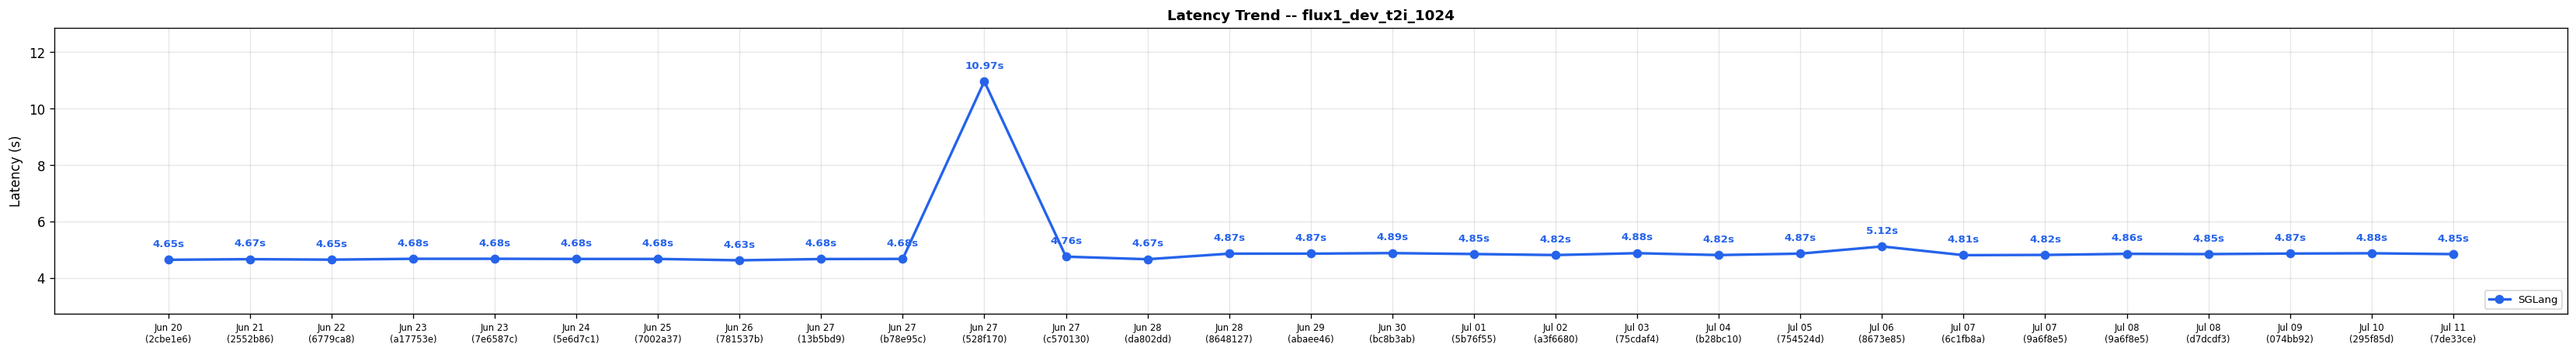
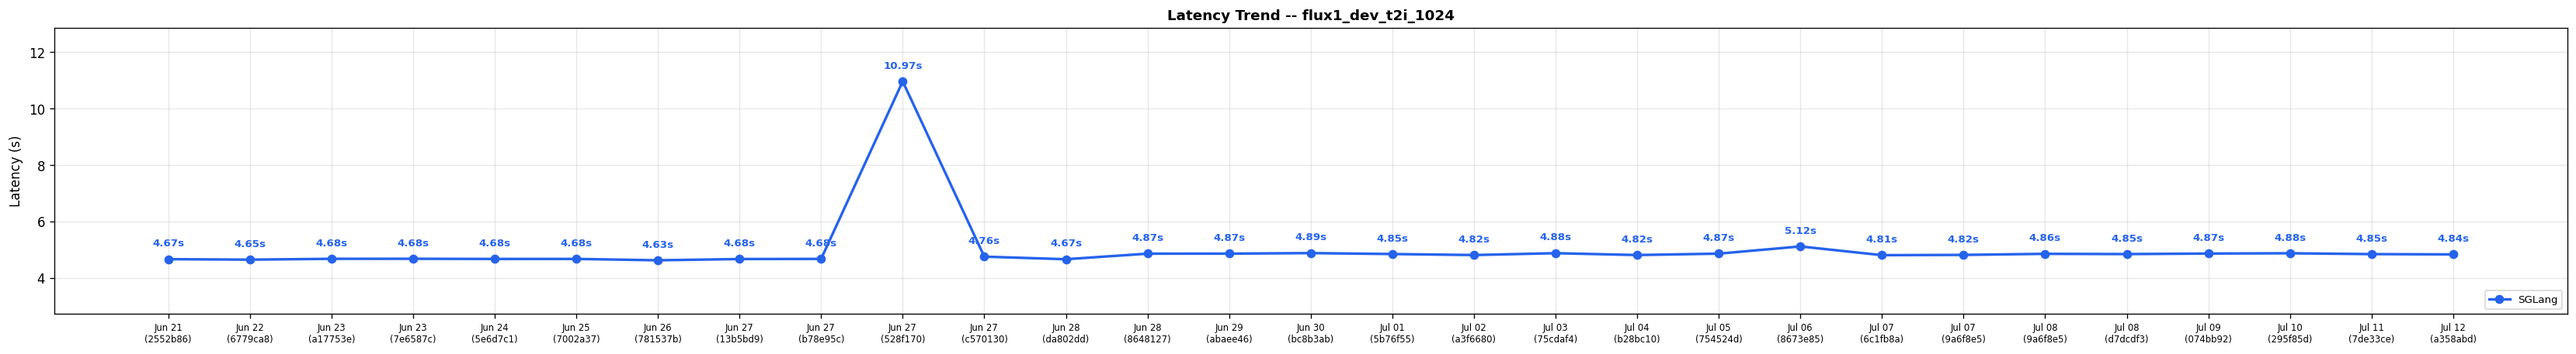
Diffusion comparison results for run 29174243869 (#713)

diff --git a/diffusion-comparisons/dashboard.md b/diffusion-comparisons/dashboard.md
@@ -1,22 +1,22 @@
 # SGLang-Diffusion Nightly Performance Dashboard
 
-*Generated: Jul 11 | Commit: `7de33ce`*
+*Generated: Jul 12 | Commit: `a358abd`*
 
 ## SGLang-Diffusion Performance
 
 | Model | Risk | sglang (s) |
 |-------|------|---------|
-| FLUX.1-dev | ✅ | **4.85** |
-| FLUX.2-dev | ✅ | **14.49** |
-| Qwen-Image-2512 | ✅ | **8.81** |
-| Qwen-Image-Edit-2511 | ✅ | **15.38** |
+| FLUX.1-dev | ✅ | **4.84** |
+| FLUX.2-dev | ✅ | **14.35** |
+| Qwen-Image-2512 | ✅ | **8.75** |
+| Qwen-Image-Edit-2511 | ✅ | **15.28** |
 | Z-Image-Turbo | ✅ | **0.81** |
-| Wan2.2-T2V-A14B-Diffusers | ✅ | **210.63** |
-| Wan2.2-TI2V-5B-Diffusers | ✅ | **65.23** |
+| Wan2.2-T2V-A14B-Diffusers | ✅ | **209.68** |
+| Wan2.2-TI2V-5B-Diffusers | ✅ | **64.18** |
 | LTX-2.3 | ✅ | **13.06** |
-| ideogram-4-fp8 | ✅ | **5.34** |
-| Cosmos3-Super | ✅ | **118.39** |
-| Wan2.2-I2V-A14B-Diffusers | ✅ | **204.69** |
+| ideogram-4-fp8 | ✅ | **5.32** |
+| Cosmos3-Super | ✅ | **114.39** |
+| Wan2.2-I2V-A14B-Diffusers | ✅ | **203.71** |
 
 ### Latency Trend: flux1_dev_t2i_1024
 
@@ -77,6 +77,7 @@
 
 | Date | Commit | flux1_dev_t2i_1024 (s) | flux2_dev_t2i_1024 (s) | qwen_image_2512_t2i_1024 (s) | qwen_image_edit_2511 (s) | zimage_turbo_t2i_1024 (s) | wan22_t2v_a14b_720p (s) | wan22_ti2v_5b_720p (s) | ltx2.3_twostage_ti2v_2gpus (s) | ideogram4_fp8_t2i_2gpu (s) | cosmos3_super_t2v_2gpu (s) | wan22_i2v_a14b_720p (s) | Trend |
 |------|--------|---------|---------|---------|---------|---------|---------|---------|---------|---------|---------|---------|-------|
+| Jul 12 | `a358abd` | 4.84 | 14.35 | 8.75 | 15.28 | 0.81 | 209.68 | 64.18 | 13.06 | 5.32 | 114.39 | 203.71 | :left_right_arrow:  :left_right_arrow:  :left_right_arrow:  :left_right_arrow:  :left_right_arrow:  :left_right_arrow:  :left_right_arrow:  :left_right_arrow:  :left_right_arrow:  :arrow_down:  :left_right_arrow: |
 | Jul 11 | `7de33ce` | 4.85 | 14.49 | 8.81 | 15.38 | 0.81 | 210.63 | 65.23 | 13.06 | 5.34 | 118.39 | 204.69 | :left_right_arrow:  :left_right_arrow:  :left_right_arrow:  :left_right_arrow:  :left_right_arrow:  :left_right_arrow:  :left_right_arrow:  :left_right_arrow:  :left_right_arrow:  :arrow_down:  :left_right_arrow: |
 | Jul 10 | `295f85d` | 4.88 | 14.46 | 8.98 | 15.44 | 0.82 | 210.72 | 65.23 | 13.05 | 5.38 | 128.45 | 205.69 | :left_right_arrow:  :left_right_arrow:  :arrow_down:  :left_right_arrow:  :left_right_arrow:  :left_right_arrow:  :left_right_arrow:  :arrow_down:  :left_right_arrow:  :arrow_up:  :left_right_arrow: |
 | Jul 09 | `074bb92` | 4.87 | 14.45 | 10.74 | 15.41 | 0.83 | 210.74 | 65.24 | 17.07 | 5.34 | 116.33 | 204.68 | :left_right_arrow:  :left_right_arrow:  :arrow_down:  :left_right_arrow:  :left_right_arrow:  :left_right_arrow:  :left_right_arrow:  :arrow_up:  :left_right_arrow:  :left_right_arrow:  :left_right_arrow: |
@@ -105,8 +106,7 @@
 | Jun 23 | `7e6587c` | 4.68 | 14.35 | 12.84 | 23.79 | 0.64 | 209.91 | 65.20 | 14.05 | N/A | N/A | 205.65 | :left_right_arrow:  :left_right_arrow:  :left_right_arrow:  :left_right_arrow:  :left_right_arrow:  :left_right_arrow:  :left_right_arrow:  :left_right_arrow:    :left_right_arrow: |
 | Jun 23 | `a17753e` | 4.68 | 14.34 | 12.80 | 23.72 | 0.64 | 211.07 | 65.22 | 14.05 | N/A | N/A | 205.68 | :left_right_arrow:  :left_right_arrow:  :left_right_arrow:  :left_right_arrow:  :left_right_arrow:  :left_right_arrow:  :left_right_arrow:  :left_right_arrow:    :left_right_arrow: |
 | Jun 22 | `6779ca8` | 4.65 | 14.37 | 12.83 | 23.76 | 0.64 | 209.96 | 65.23 | 14.05 | N/A | N/A | 205.58 | :left_right_arrow:  :left_right_arrow:  :left_right_arrow:  :left_right_arrow:  :left_right_arrow:  :left_right_arrow:  :left_right_arrow:  :arrow_down:    :left_right_arrow: |
-| Jun 21 | `2552b86` | 4.67 | 14.33 | 12.74 | 23.63 | 0.65 | 209.38 | 64.15 | 19.07 | N/A | N/A | 204.55 | :left_right_arrow:  :left_right_arrow:  :left_right_arrow:  :left_right_arrow:  :arrow_down:  :left_right_arrow:  :left_right_arrow:  :arrow_up:    :left_right_arrow: |
-| Jun 20 | `2cbe1e6` | 4.65 | 14.33 | 12.78 | 23.63 | 0.66 | 209.30 | 64.20 | 15.05 | N/A | N/A | 205.54 | -- |
+| Jun 21 | `2552b86` | 4.67 | 14.33 | 12.74 | 23.63 | 0.65 | 209.38 | 64.15 | 19.07 | N/A | N/A | 204.55 | -- |
 
 ---
 *Generated by `generate_diffusion_dashboard.py` in SGLang nightly CI.*
